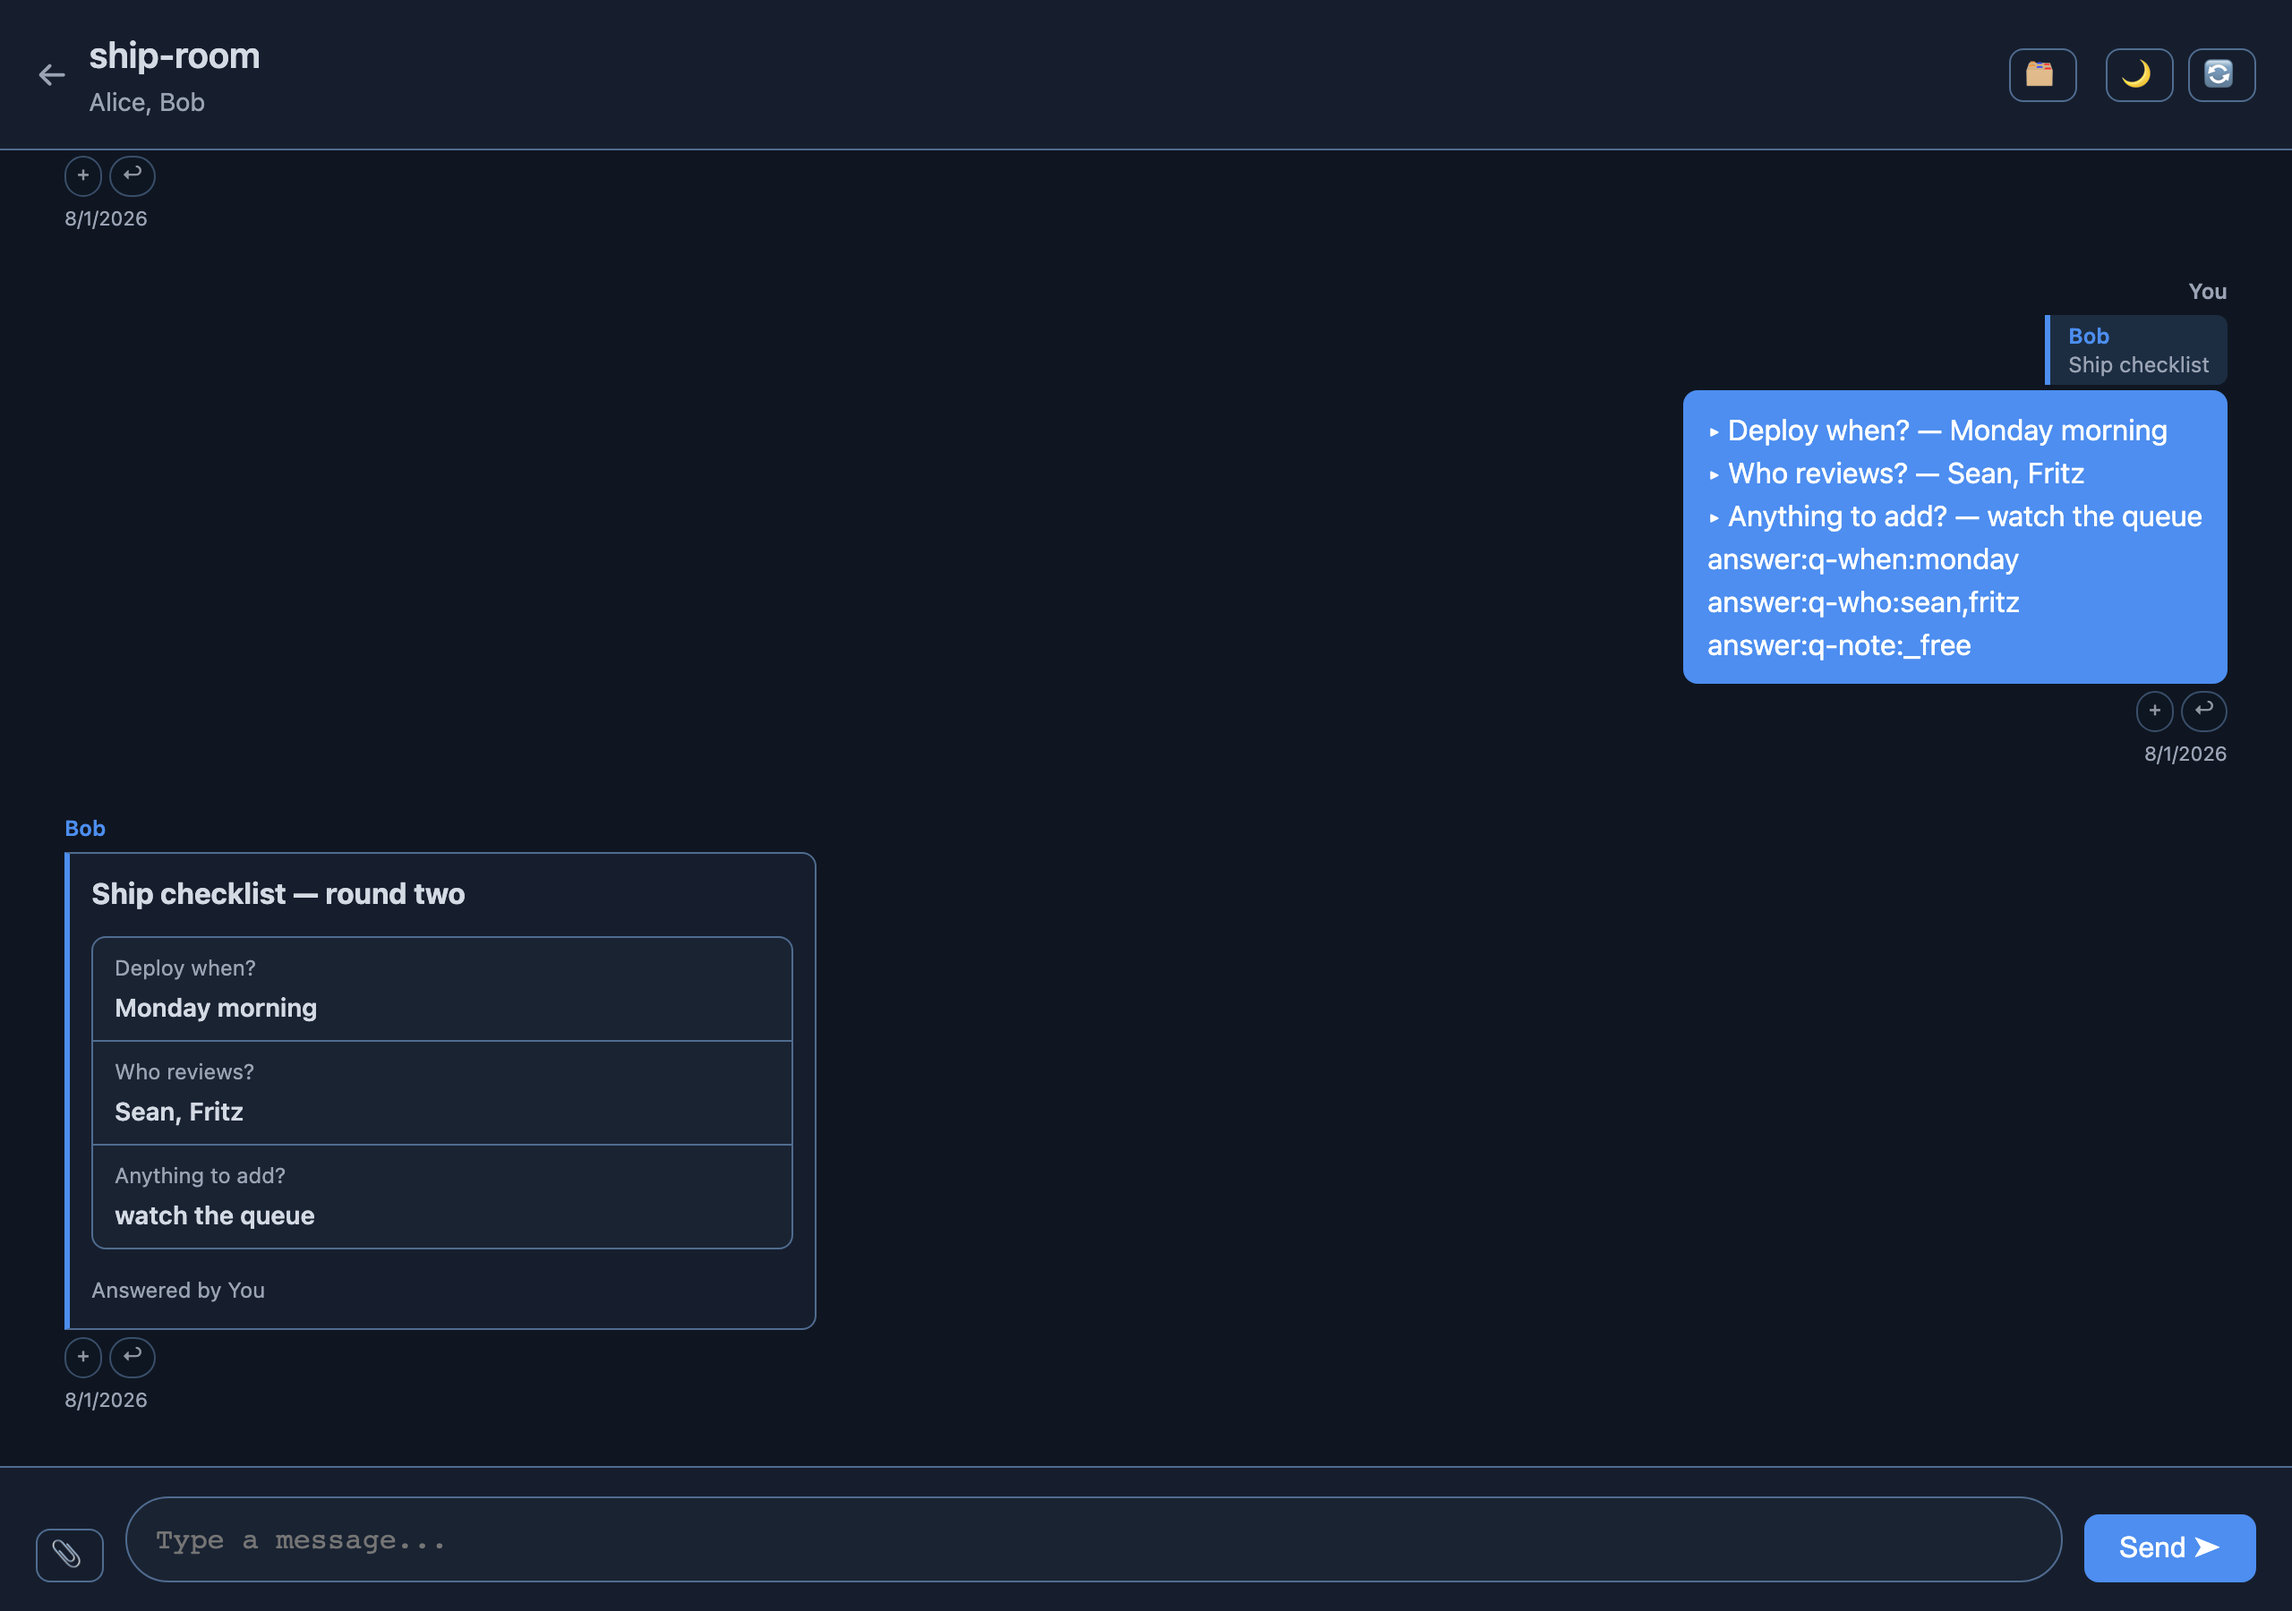
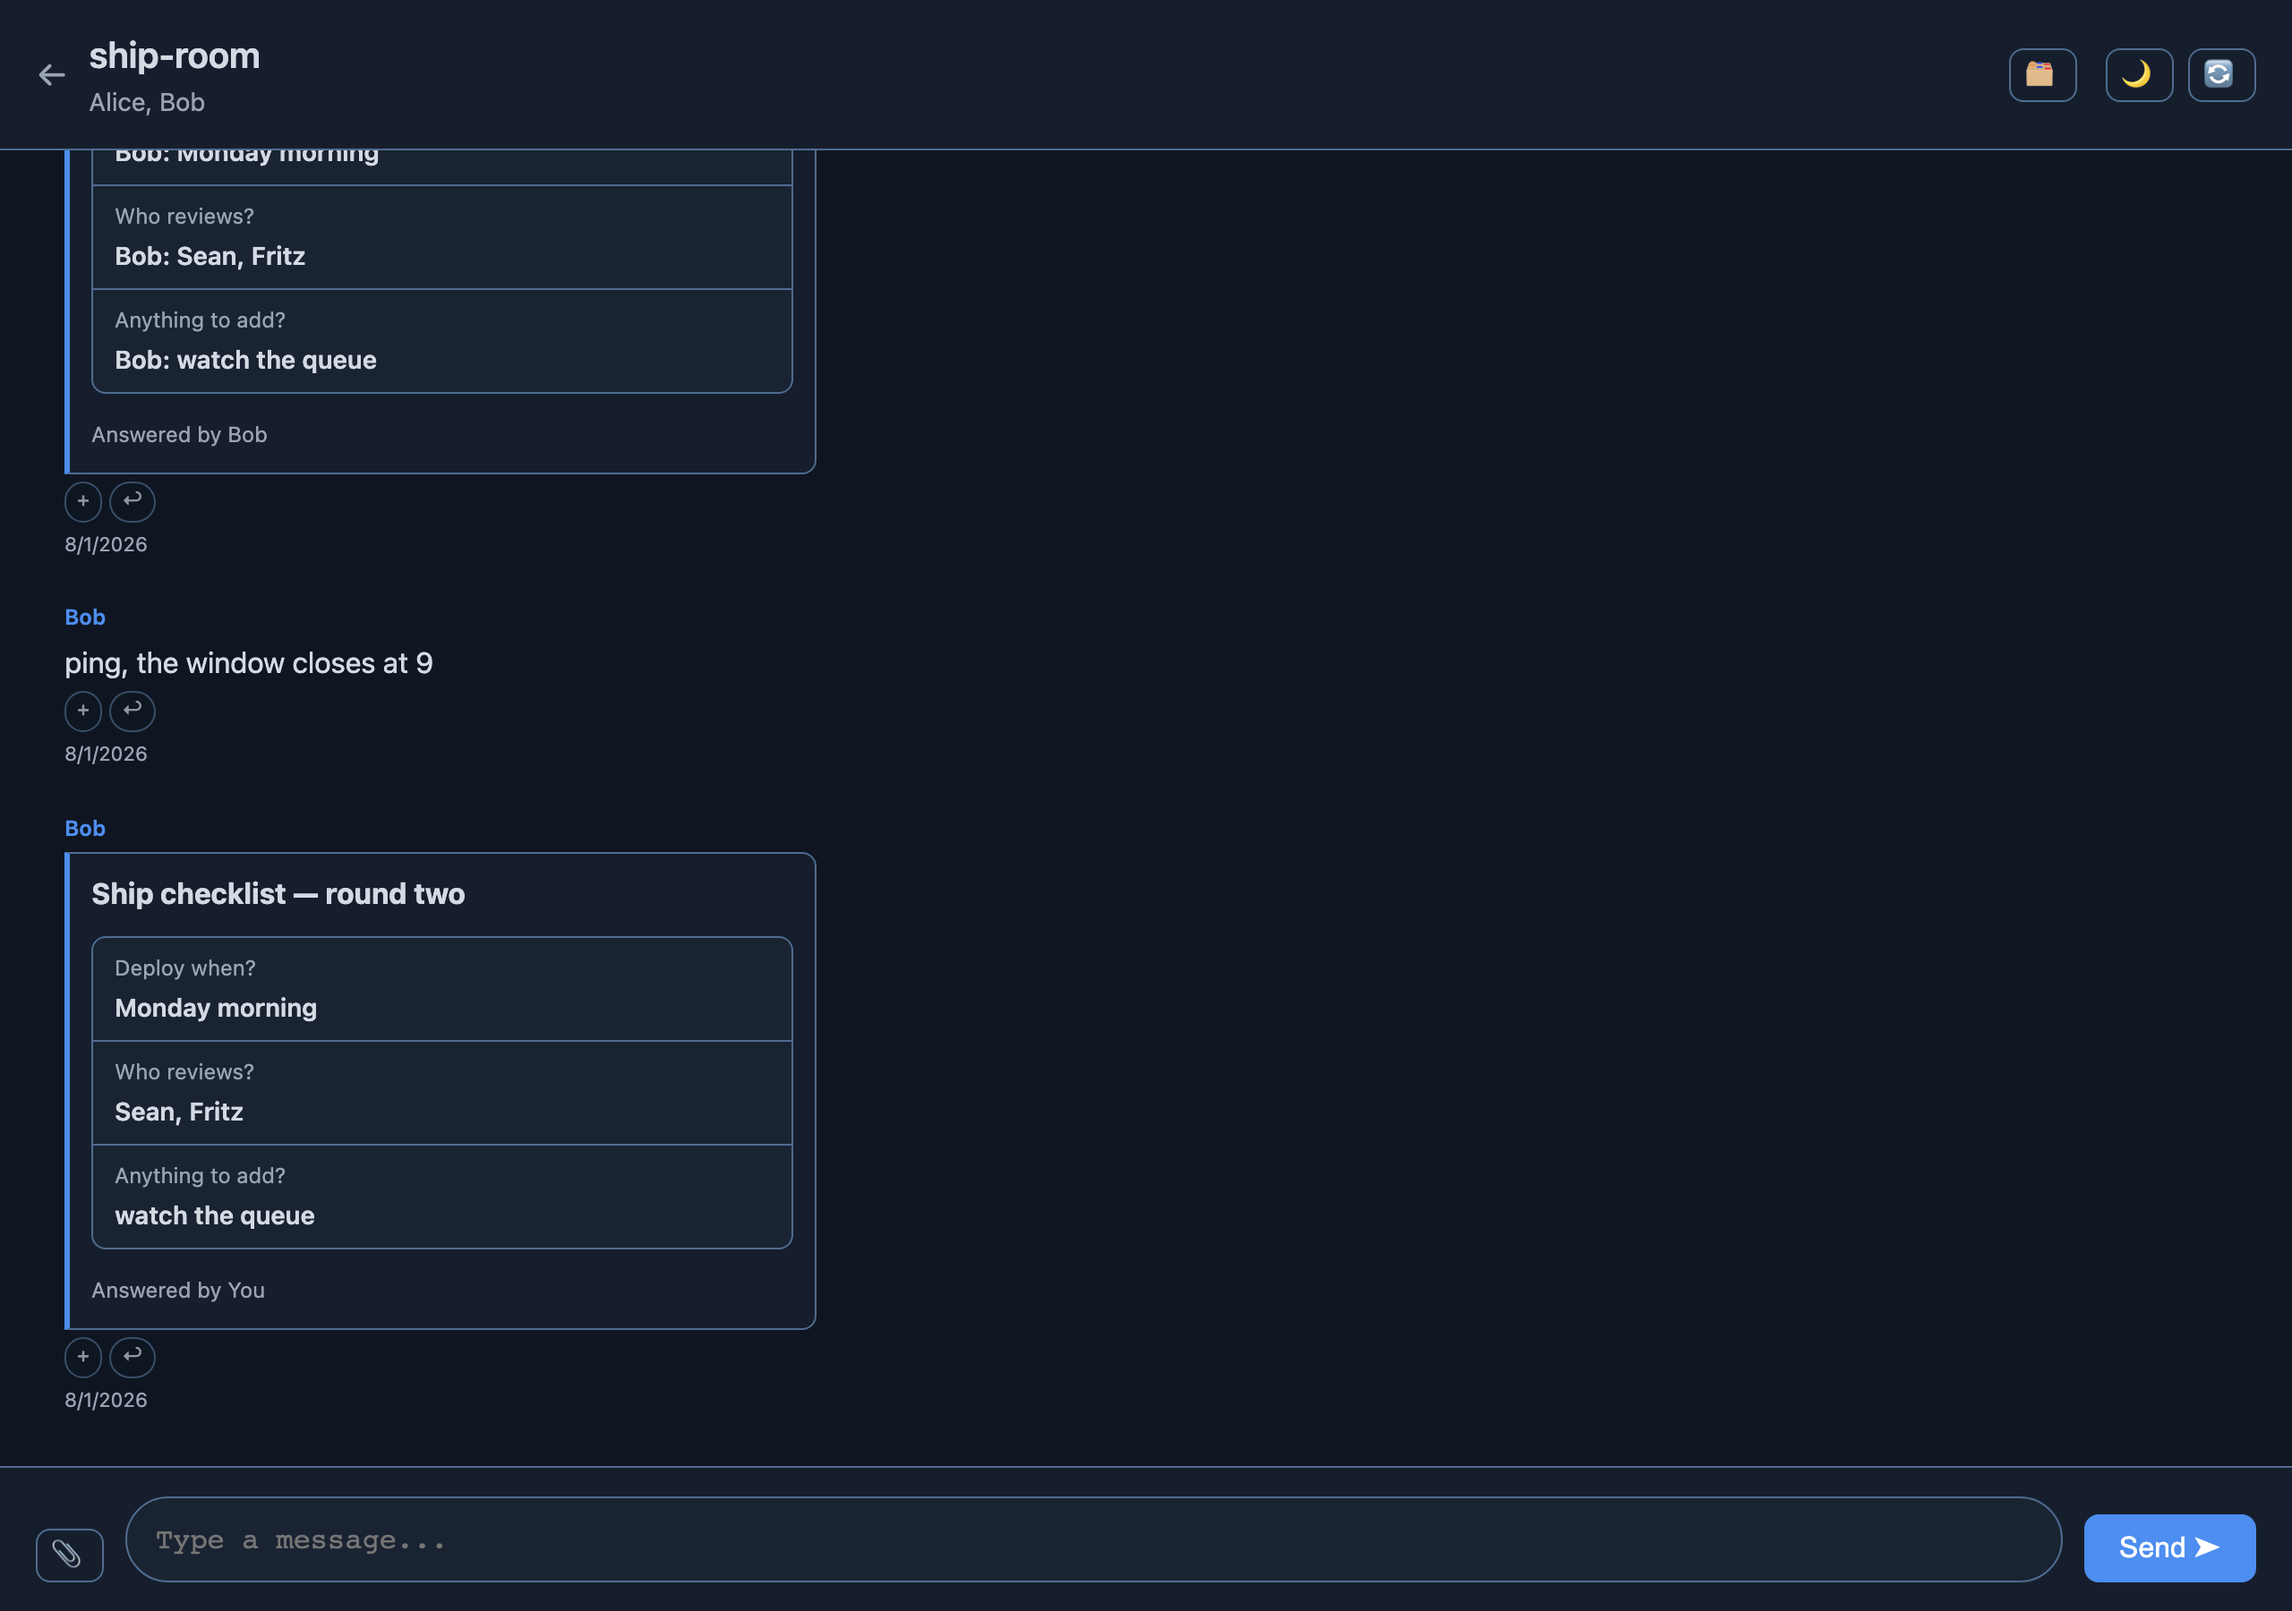
docs(questions): reshoot the read-back surface for the unconditional rule
The §5 caption described a form whose answer kept its bubble because a
message sat in between, which no longer happens. The surface is now a form
Bob answered — his bubble gone, his answers reading back under the controls
that are still Alice's — above a form Alice answered, read back in place.

Measured in a real browser at 390x844 and 1280x900: the others pane renders
inside the card, below the wizard nav, carrying the read-back's own 1px
border, and includes the free text no option button can show.

diff --git a/docs/QUESTIONS.md b/docs/QUESTIONS.md
@@ -273,9 +273,10 @@ Each shows an unanswered card with the free-text row, a multi-select card
 with its send button, and an answered single-select card — read back as the
 prompt and the answer, with no separate reply bubble under it.
 
-The same form twice: above, answered with a message in between, so the reply
-keeps its bubble; below, answered with nothing in between, so the Q&A is
-drawn in place of the card and the bubble is gone.
+The same form twice. Above, answered by Bob with a message in between: his
+bubble is gone all the same, and his answers — including the text he typed —
+read back under the controls that are still Alice's. Below, answered by
+Alice: the card is the read-back. Neither answer appears in the stream.
 
 | | Light | Dark |
 |---|---|---|
